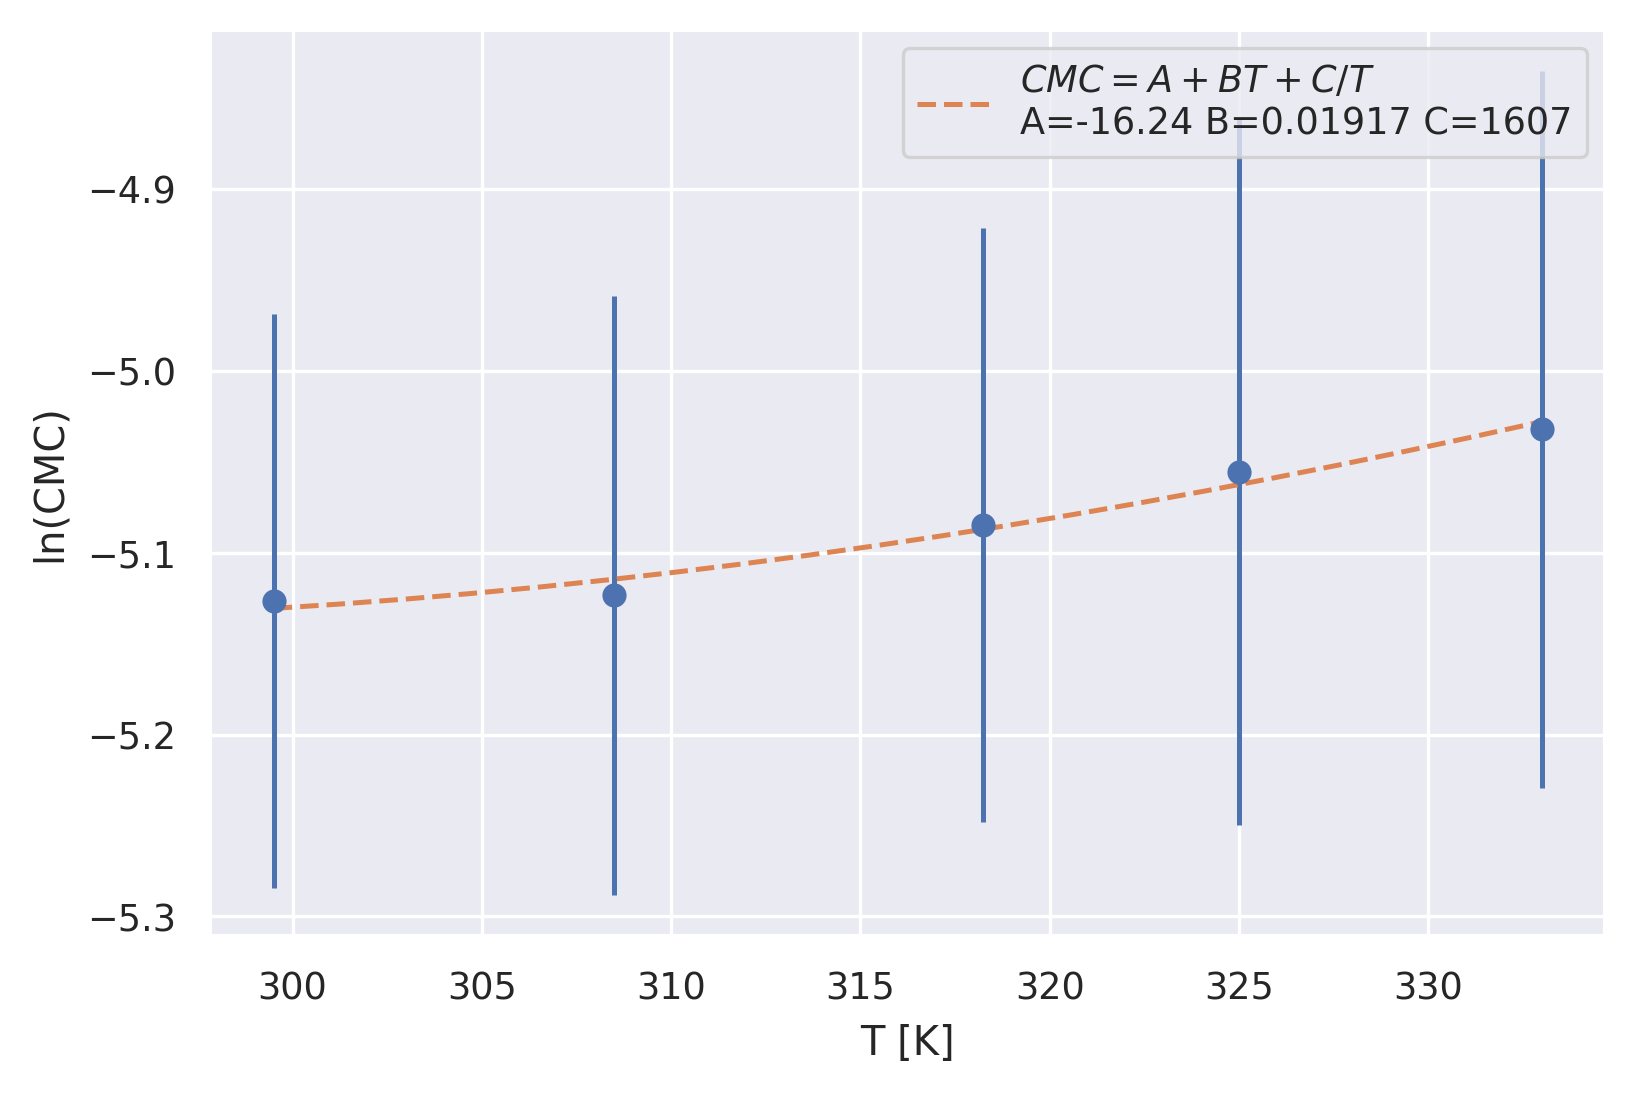
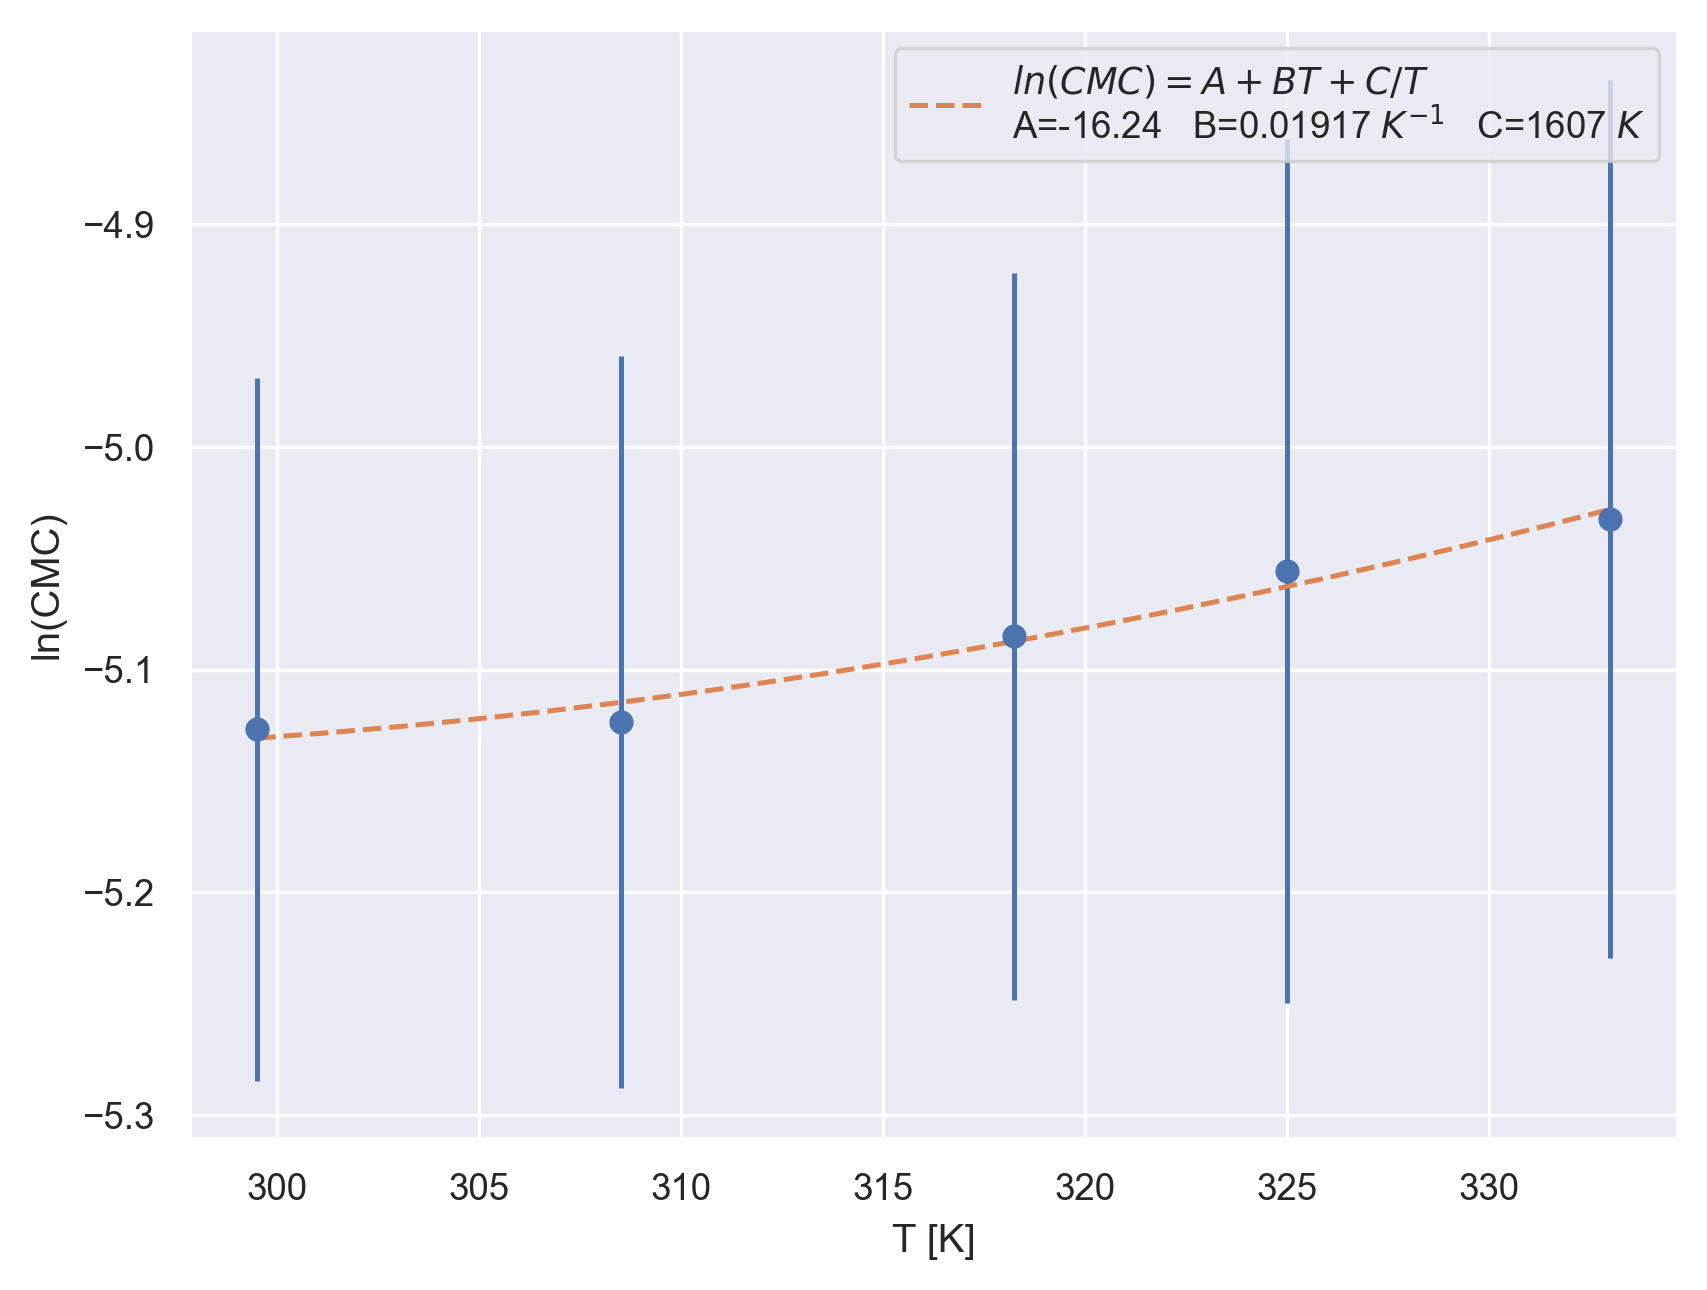
correciones

diff --git a/calculos.py b/calculos.py
@@ -661,7 +661,7 @@ plt.plot(
     np.linspace(Temps[0],Temps[-1],20),
     pol_CMC(np.linspace(Temps[0],Temps[-1],20),*param_pol_CMC),
     linestyle='--',
-    label=r"$CMC=A+BT+C/T$"+f"\nA={param_pol_CMC[0]:.4g} B={param_pol_CMC[1]:.4g} C={param_pol_CMC[2]:.4g}"
+    label=r"$ln(CMC)=A+BT+C/T$"+f"\nA={param_pol_CMC[0]:.4g}   B={param_pol_CMC[1]:.4g} "+r"$K^{-1}$"+f"   C={param_pol_CMC[2]:.4g} "+r"$K$"
 )
 
 
